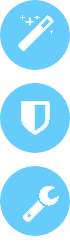
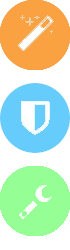
3.3_f
首页，注册页

diff --git a/Public/Home/css/style.css b/Public/Home/css/style.css
@@ -64,28 +64,28 @@ a:hover{color:#66ccfb;text-decoration:none;}
 .cont{width:1070px;margin:auto;padding-top:45px;}
 
 /*--------content_top---------------------*/
-.cont .cont_top{width:1070px;height:245px;background:url(../images/cont_bg.png) repeat-x bottom left;overflow:hidden;}
+.cont .cont_top{width:1070px;height:245px;overflow:hidden;}
 .cont .cont_top dl{width:210px;height:245px;float:left;margin-right:75px;}
 .cont .cont_top dt{width:205px;height:80px;position:relative;}
 
 .cont .cont_top dt h2{width:205px;height:80px;font-size:20px;font-weight:normal;}
-.cont .cont_top dt h2 a{display:block;width:130px;height:80px;background:url(../images/touzil.png) no-repeat;padding:0 0 0 75px;}
-.cont .cont_top dt h2 a:hover{display:block;width:130px;height:80px;background:url(../images/touzi.png) no-repeat;padding:0 0 0 75px;color:#ef681f;}
+.cont .cont_top dt h2 a{display:block;width:130px;height:80px;background:url(../images/touzil.png) no-repeat;padding:0 0 0 75px;color: #cf000e;}
+.cont .cont_top dt h2 a:hover{display:block;width:130px;height:80px;padding:0 0 0 75px;}
 .cont .cont_top dt p{font-size:14px;font-weight:normal;line-height:22px;position:absolute;left:75px;top:45px;}
 .cont .cont_top dd{width:210px;height:145px;line-height:24px;padding-top:15px;}
 
 .cont .cont_top .rongzi dt{width:205px;}
-.cont .cont_top .rongzi dt a{width:130px;background:url(../images/icons.png) no-repeat 0 0;}
-.cont .cont_top .rongzi dt a:hover{width:130px;background:url(../images/pri.png) no-repeat;color:#ef681f;}
+.cont .cont_top .rongzi dt a{width:130px;background:url(../images/icons.png) no-repeat 0 0;color: #faa142;}
+.cont .cont_top .rongzi dt a:hover{width:130px;}
 
 
 .cont .cont_top .safety dt{width:205px;}
-.cont .cont_top .safety dt a{width:130px;background:url(../images/icons.png) no-repeat 0 -83px;}
-.cont .cont_top .safety dt a:hover{width:130px;background:url(../images/auquan.png) no-repeat;color:#ef681f;}
+.cont .cont_top .safety dt a{width:130px;background:url(../images/icons.png) no-repeat 0 -83px;color: #66ccfb;}
+.cont .cont_top .safety dt a:hover{width:130px;}
 
 .cont .cont_top .helpCenter{margin-right:0;width:210px;}
-.cont .cont_top .helpCenter dt a{width:130px;background:url(../images/bangzhub.png) no-repeat;}
-.cont .cont_top .helpCenter dt a:hover{width:130px;background:url(../images/priii.png) no-repeat;color:#ef681f;}
+.cont .cont_top .helpCenter dt a{width:130px;background:url(../images/bangzhub.png) no-repeat;color: #95ff95;}
+.cont .cont_top .helpCenter dt a:hover{width:130px;}
 
 
 /*----------content_bottom---------------------*/
@@ -181,11 +181,11 @@ a:hover{color:#66ccfb;text-decoration:none;}
 .dl_cont dd .yz_call{width:135px;height:42px;line-height:20px;float:left;font-size:14px;margin-left:10px;}
 .dl_cont dd .yz_call span{color:#66ccfc;}
 .dl_cont .zcBtn{width:140px;height:40px;background:url(../images/140x40pxblue.png) no-repeat;color:#fff;margin-left:300px;font-size:16px;cursor:pointer;}
-.dl_cont .zcCheck{width:260px;height:25px;line-height:20px;margin:0 auto 30px;overflow:hidden;}
+.dl_cont .zcCheck{width:350px;height:25px;line-height:20px;margin:0 auto 30px;overflow:hidden;}
 .dl_cont .zcCheck .check{width:20px;height:20px;float:left;}
-.dl_cont .zcCheck p{float:left;width:220px;height:20px;line-height:24px;margin-left:10px;}
-
-
+.dl_cont .zcCheck p{float:left;width:320px;height:20px;line-height:24px;margin-left:10px;overflow: hidden;}
+.dl_cont .zcCheck p b{font-weight: normal;float: left;}
+.dl_cont .zcCheck p a{float: left;}
 
 
 
@@ -768,7 +768,11 @@ a:hover{color:#66ccfb;text-decoration:none;}
 
 
 
-
+/*------------服务协议   使用协议-------------------------------------------*/
+.fwxy{width: 800px;height: auto;padding:40px 133px;background: #fff;margin: 30px auto;border: 2px solid #ddd;}
+.fwxy h2{width: 800px;height: 60px;line-height: 60px;font-size: 18px;color: #ae1c27;text-align: center;margin-bottom: 20px;}
+.fwxy p{width: 800px;line-height: 30px;height: auto;}
+.fwxy h3{width: 800px;height: 40px;line-height: 40px;color: #ae1c27;font-size: 16px;margin-top: 20px;}
 
 
 

diff --git a/Application/Home/View/default/User/register.html b/Application/Home/View/default/User/register.html
@@ -121,13 +121,12 @@
 					<span style="color: red;line-height:40px;" id="checkcode" class="formtips Validform_checktip "></span>
 			</dl>
 			<div class="zcCheck">
-				<input type="checkbox" value="" name="" class="check"
-					checked="checked" />
+				<input type="checkbox" class="check" checked="checked" id="testcheck"/>
 				<p>
-					我已阅读并同意<a href="#">《网站服务协议》</a>
+					<b>我已阅读并同意</b><a href="#">《网站服务协议》</a><b>和</b><a href="#">《使用条款》</a>
 				</p>
 			</div>
-			<button type="submit" class="btn">注 册</button>
+			<button type="submit" class="btn" id="zc">注 册</button>
 		</form>
 	</div>
 </div>
@@ -323,5 +322,60 @@
 		$("#form").submit();
 
 	});
-</script> <!--content end--> </block>
+</script> <!--content end--> 
+
+
+<!--
+	作者：1339070342@qq.com
+	时间：2015-01-19
+	描述：服务条款是否选择同意
+-->
+<script type="text/javascript">
+	$(function(){
+		//alert(1);			
+		//alert($('.check').prop( "checked"));
+//		$('.check').click(function(event) {
+//          if($(this).prop( "checked", true)){
+//              $('#zc').prop( "disabled", false);
+//          }
+//         
+//      });
+
+		$('.check').bind("change",function() {
+           if($(this).is(':checked')){
+                $('#zc').prop( "disabled", false);
+           }else{
+                $('#zc').prop( "disabled", true);
+           }
+        });
+		
+	})
+</script>
+
+
+
+
+
+
+
+
+
+
+
+
+
+
+
+
+
+
+
+
+
+
+
+
+
+
+</block>
 
